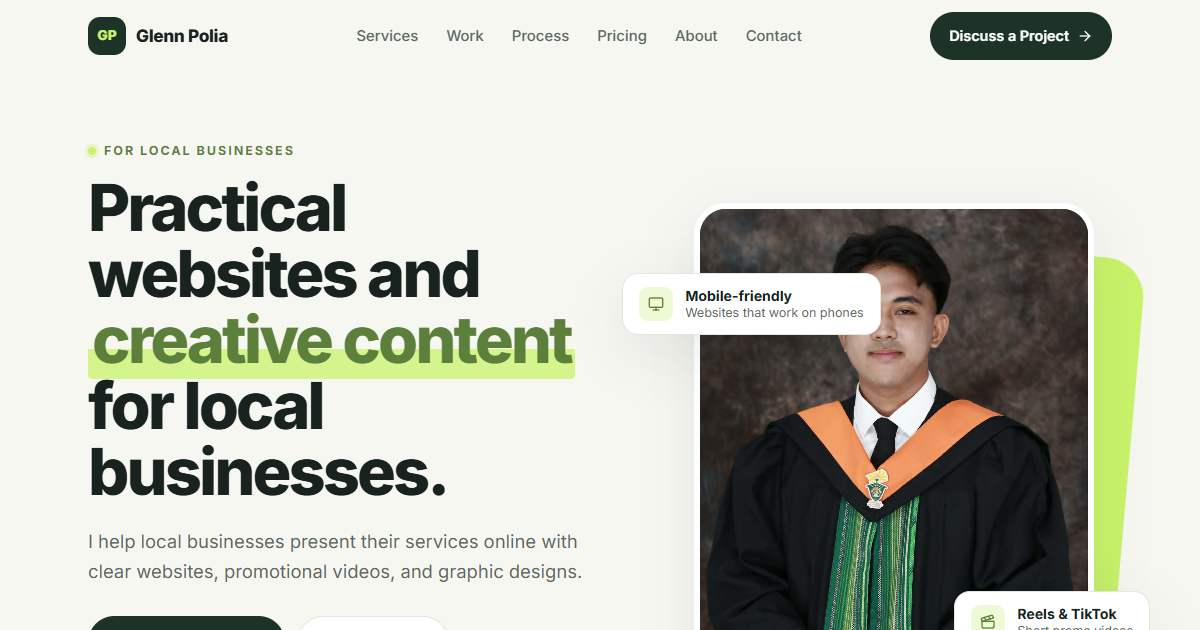
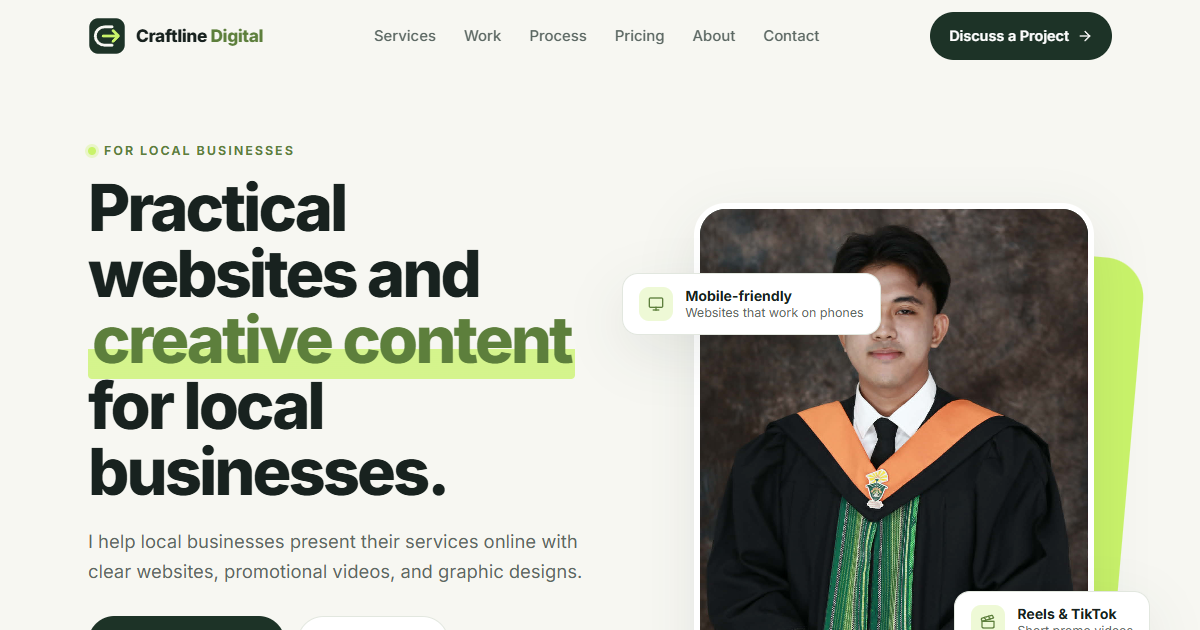
Rebrand to Craftline Digital and add portfolio samples
- Craftline Digital logo, name, favicon, and metadata
- Add personal portfolio site, Burn Bright Pro, and GLP-1 clinic to work samples

Changed region(s): [[0.3083, 0.0302, 0.6783, 0.0905], [0.0617, 0.0302, 0.2158, 0.0905]]

diff --git a/src/App.tsx b/src/App.tsx
@@ -183,11 +183,15 @@ export default function App() {
 
       <header className={`site-header ${scrolled ? "is-scrolled" : ""}`}>
         <nav className="nav container" aria-label="Main">
-          <a href="#top" className="brand" aria-label="Glenn Polia, back to top">
-            <span className="brand-mark" aria-hidden="true">
-              GP
+          <a href="#top" className="brand" aria-label="Craftline Digital, back to top">
+            <svg className="brand-mark" viewBox="0 0 120 120" aria-hidden="true">
+              <rect x="4" y="4" width="112" height="112" rx="28" fill="currentColor" />
+              <path d="M76 31H53C36 31 23 44 23 60s13 29 30 29h23" fill="none" stroke="#F7F7F2" strokeWidth="9" strokeLinecap="round" />
+              <path d="M48 60h48M79 43l17 17-17 17" fill="none" stroke="#C9F36A" strokeWidth="9" strokeLinecap="round" strokeLinejoin="round" />
+            </svg>
+            <span>
+              Craftline <span className="brand-accent">Digital</span>
             </span>
-            Glenn Polia
           </a>
           <ul className="nav-links">
             {NAV.map((n) => (
@@ -450,7 +454,7 @@ export default function App() {
                 find, and promo content that helps you stand out on social media.
               </p>
               <a className="text-link" href={SITE.portfolioUrl} target="_blank" rel="noopener noreferrer">
-                See my full work history and resume
+                See my personal portfolio and resume
                 <ArrowUpRight size={15} aria-hidden="true" />
                 <ExternalHint />
               </a>
@@ -539,10 +543,14 @@ export default function App() {
         <div className="container footer-inner">
           <div>
             <p className="brand">
-              <span className="brand-mark" aria-hidden="true">
-                GP
+              <svg className="brand-mark" viewBox="0 0 120 120" aria-hidden="true">
+              <rect x="4" y="4" width="112" height="112" rx="28" fill="currentColor" />
+              <path d="M76 31H53C36 31 23 44 23 60s13 29 30 29h23" fill="none" stroke="#F7F7F2" strokeWidth="9" strokeLinecap="round" />
+              <path d="M48 60h48M79 43l17 17-17 17" fill="none" stroke="#C9F36A" strokeWidth="9" strokeLinecap="round" strokeLinejoin="round" />
+            </svg>
+              <span>
+                Craftline <span className="brand-accent">Digital</span>
               </span>
-              Glenn Polia
             </p>
             <p className="footer-desc">{SITE.descriptor}</p>
           </div>

diff --git a/src/data.ts b/src/data.ts
@@ -2,7 +2,7 @@
 // Prices are "starting at" amounts in Philippine pesos.
 
 export const SITE = {
-  name: "Glenn Polia",
+  name: "Craftline Digital",
   descriptor: "Websites, video editing, and graphic design for local businesses",
   portfolioUrl: "https://glennpolia.vercel.app/"
 };
@@ -150,6 +150,15 @@ export interface WorkItem {
 
 export const WORK: WorkItem[] = [
   {
+    id: "glennpolia-portfolio",
+    title: "Personal Portfolio Website",
+    kind: "Website",
+    description: "My own portfolio site with a project gallery, resume download, animated demos, and mobile layout. Built with React and live on Vercel.",
+    imageUrl: "/assets/work/glennpolia-portfolio.png",
+    previewUrl: "https://glennpolia.vercel.app/",
+    previewLabel: "Visit Site"
+  },
+  {
     id: "cafe-concept",
     title: "Local Café Website",
     kind: "Website",
@@ -183,6 +192,24 @@ export const WORK: WorkItem[] = [
     description: "A media kit page presenting a content creator duo to brands and builders looking for partnerships.",
     imageUrl: "/assets/funnels/ruben-arthur-partnership.png",
     previewUrl: "https://app.gohighlevel.com/v2/preview/T7r63z5lkenUyB7ZqSSq?notrack=true",
+    previewLabel: "View Page"
+  },
+  {
+    id: "burn-bright",
+    title: "Burn Bright Pro",
+    kind: "Website",
+    description: "A landing page for an Instagram marketing app that explains the product and moves visitors toward signing up.",
+    imageUrl: "/assets/funnels/burn-bright-pro-ig.png",
+    previewUrl: "https://app.gohighlevel.com/v2/preview/4Kldl6gfh04SWEOXoLm8?notrack=true",
+    previewLabel: "View Page"
+  },
+  {
+    id: "glp1-clinic",
+    title: "GLP-1 Weight Loss Clinic",
+    kind: "Website",
+    description: "A landing page for a medical weight loss program, structured to get visitors to book a consultation.",
+    imageUrl: "/assets/funnels/glp1-demo-clinic.png",
+    previewUrl: "https://app.gohighlevel.com/v2/preview/7W6Ieb6PAlZJ4UOelx4T",
     previewLabel: "View Page"
   },
   {

diff --git a/public/concepts/cafe/index.html b/public/concepts/cafe/index.html
@@ -3,8 +3,8 @@
 <head>
   <meta charset="UTF-8" />
   <meta name="viewport" content="width=device-width, initial-scale=1.0" />
-  <title>Kapehan sa Kanto | Concept Demo by Glenn Polia</title>
-  <meta name="description" content="A concept demo of a one-page café website, built by Glenn Polia to show the Starter Page package. Not a real business." />
+  <title>Kapehan sa Kanto | Concept Demo by Craftline Digital</title>
+  <meta name="description" content="A concept demo of a one-page café website, built by Craftline Digital to show the Starter Page package. Not a real business." />
   <meta name="robots" content="noindex" />
   <link rel="icon" type="image/svg+xml" href="/favicon.svg" />
   <link rel="preconnect" href="https://fonts.googleapis.com" />
@@ -63,7 +63,7 @@
   </style>
 </head>
 <body>
-  <div class="demo-bar">Concept demo by Glenn Polia showing the Starter Page package. Not a real business. <a href="/">Back to Glenn Polia</a></div>
+  <div class="demo-bar">Concept demo by Craftline Digital showing the Starter Page package. Not a real business. <a href="/">Back to Craftline Digital</a></div>
   <div class="wrap">
     <header>
       <a class="logo" href="#top">Kapehan <span>sa Kanto</span></a>
@@ -119,6 +119,6 @@
       </div>
     </div>
   </section>
-  <footer>Kapehan sa Kanto is a fictional café made for this demo. Website concept by <a href="/">Glenn Polia</a>.</footer>
+  <footer>Kapehan sa Kanto is a fictional café made for this demo. Website concept by <a href="/">Craftline Digital</a>.</footer>
 </body>
 </html>

diff --git a/index.html b/index.html
@@ -3,13 +3,13 @@
   <head>
     <meta charset="UTF-8" />
     <meta name="viewport" content="width=device-width, initial-scale=1.0" />
-    <title>Glenn Polia | Websites, Video Editing &amp; Graphic Design for Local Businesses</title>
+    <title>Craftline Digital | Websites, Video Editing &amp; Graphic Design for Local Businesses</title>
     <meta name="description" content="Clear websites, short promo videos, and graphic designs for local businesses. Website packages start at ₱1,000, video editing at ₱500, and graphics at ₱250." />
     <meta name="theme-color" content="#1D3327" />
     <link rel="icon" type="image/svg+xml" href="/favicon.svg" />
 
     <meta property="og:type" content="website" />
-    <meta property="og:title" content="Glenn Polia | Websites and Creative Content for Local Businesses" />
+    <meta property="og:title" content="Craftline Digital | Websites and Creative Content for Local Businesses" />
     <meta property="og:description" content="Clear websites, short promo videos, and graphic designs for local businesses, with simple starting prices." />
     <meta property="og:image" content="/og-image.png" />
     <meta name="twitter:card" content="summary_large_image" />

diff --git a/src/index.css b/src/index.css
@@ -198,14 +198,14 @@ button:focus-visible {
 .brand-mark {
   width: 38px;
   height: 38px;
-  border-radius: 12px;
-  background: var(--forest);
+  flex-shrink: 0;
+  color: var(--forest);
+}
+.brand-accent {
+  color: var(--moss);
+}
+.footer .brand-accent {
   color: var(--lime);
-  display: grid;
-  place-items: center;
-  font-size: 0.85rem;
-  font-weight: 800;
-  letter-spacing: 0;
 }
 .nav-links {
   display: flex;
@@ -917,8 +917,7 @@ button:focus-visible {
   color: #fff;
 }
 .footer .brand-mark {
-  background: var(--lime);
-  color: var(--forest);
+  color: #2f5240;
 }
 .footer-inner {
   display: flex;
